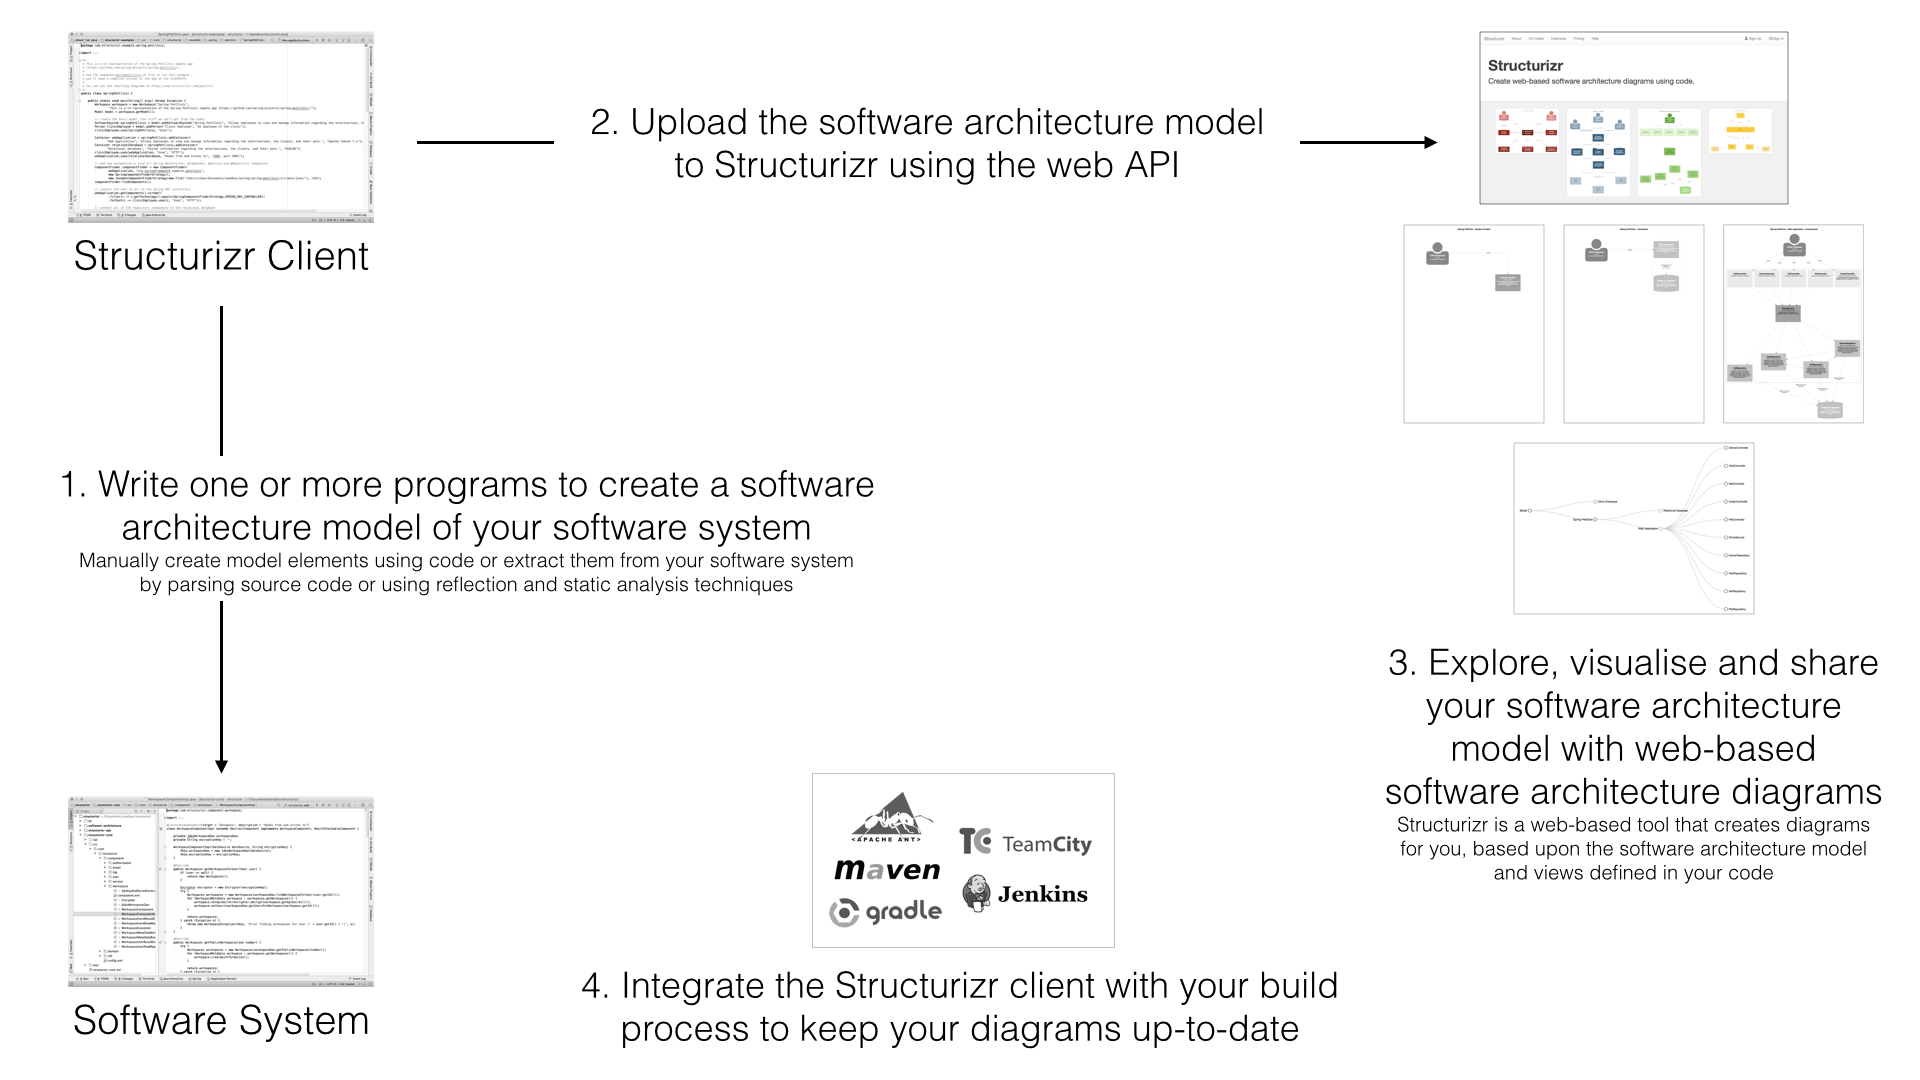
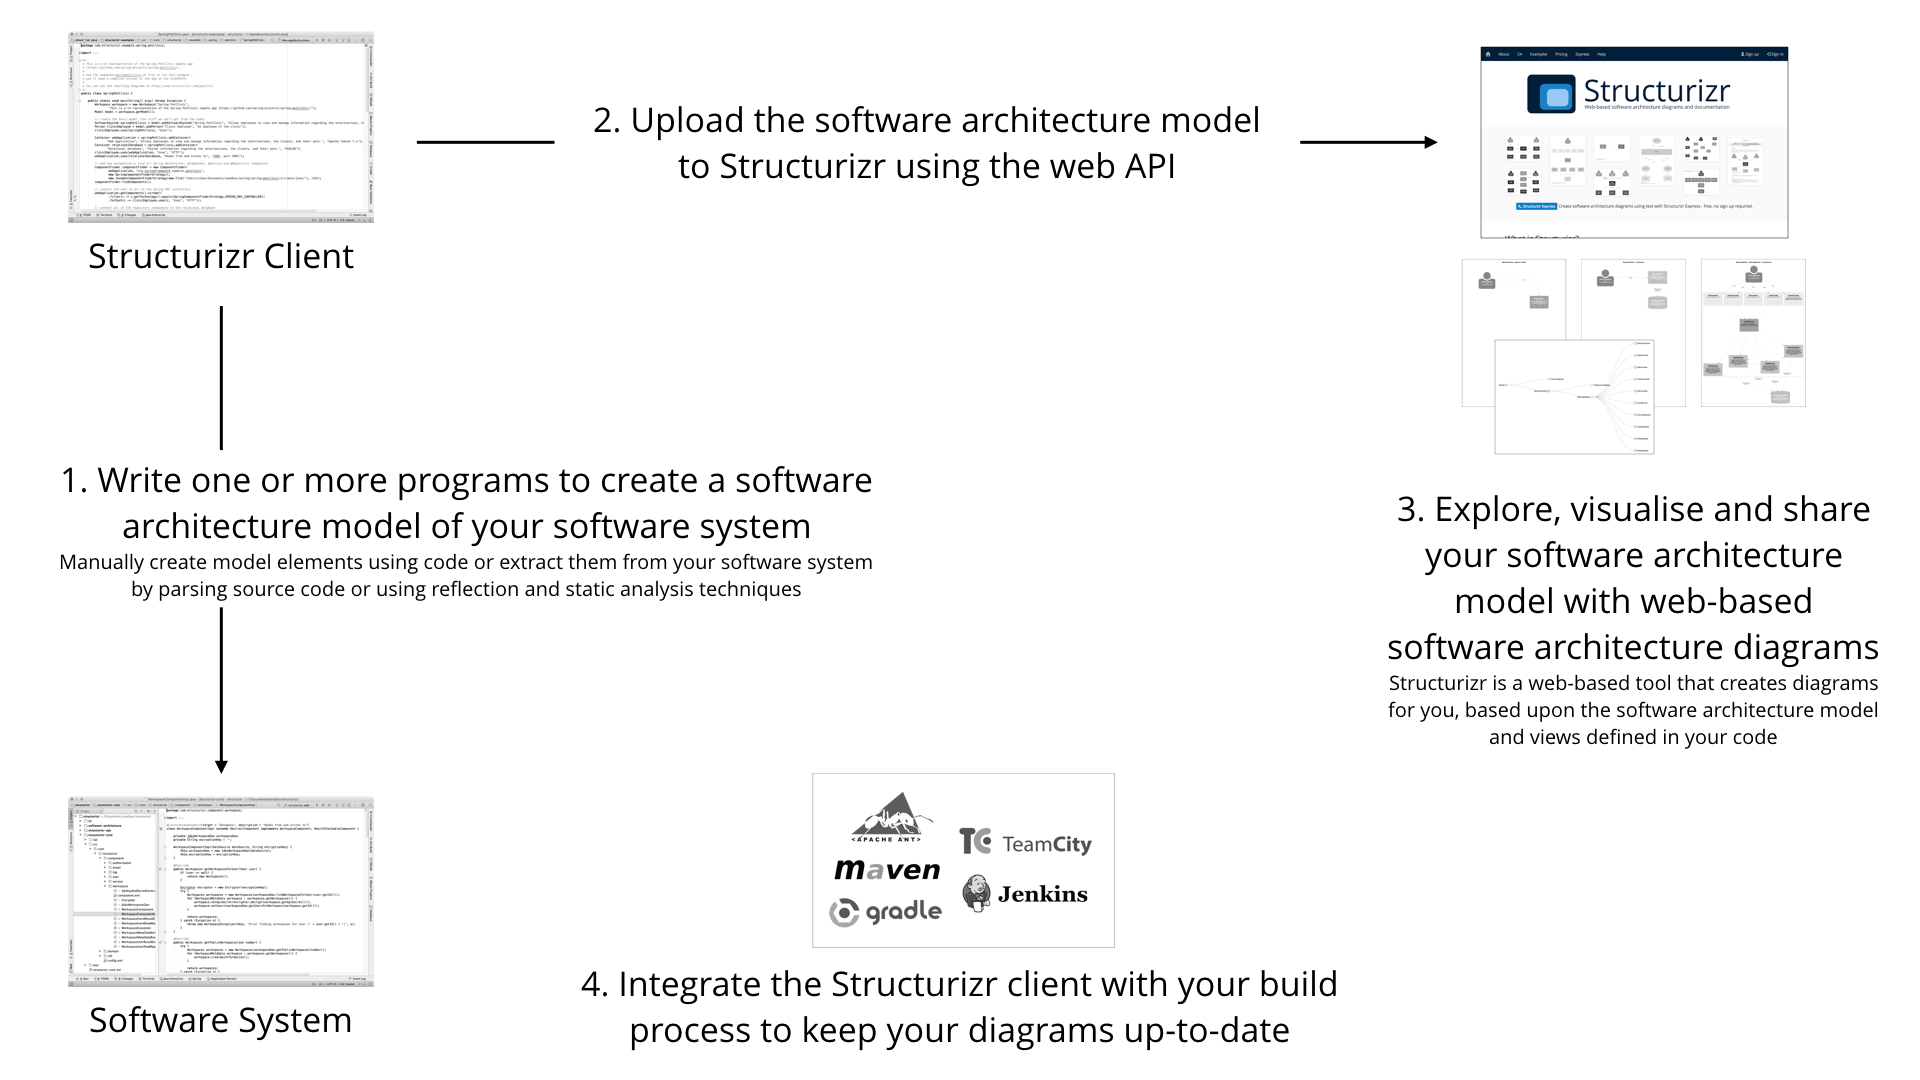
Updated styling.

diff --git a/README.md b/README.md
@@ -2,15 +2,13 @@
 
 # Structurizr for .NET
 
-This GitHub repository is a .NET library to create software architecture models that are compatible with [Structurizr](https://structurizr.com), a SaaS to create web-based software architecture diagrams. It's an implementation of the "C4 software architecture model", as described in Simon Brown's FREE [The Art of Visualising Software Architecture](https://leanpub.com/visualising-software-architecture) book. In a nutshell:
+This GitHub repository is a .NET library to create software architecture models that are compatible with [Structurizr](https://structurizr.com), a SaaS to create web-based software architecture diagrams. In summary:
 
 1. Create a software architecture model using .NET code, either manually or by extracting information from an existing codebase.
 1. Upload the model (as a JSON document) to [Structurizr](https://structurizr.com) using the web API.
 1. Visualise and share the resulting software architecture diagrams ([example](https://structurizr.com/public/1)).
 
 ![An overview of Structurizr](docs/images/structurizr-overview.png)
-
-__Please note:__ This is a work in progess.
 
 ## Table of contents
 
@@ -71,8 +69,8 @@ Elements and relationships can be styled by specifying colours, sizes and shapes
 
 ```c#
 Styles styles = viewSet.Configuration.Styles;
-styles.Add(new ElementStyle(Tags.SoftwareSystem) { Background = "#a4b7c9", Color = "#000000" });
-styles.Add(new ElementStyle(Tags.Person) { Background = "#728da5", Color = "#ffffff" });
+styles.Add(new ElementStyle(Tags.SoftwareSystem) { Background = "#1168bd", Color = "#ffffff" });
+styles.Add(new ElementStyle(Tags.Person) { Background = "#08427b", Color = "#ffffff" });
 ```
 
 ### 5. Upload to Structurizr
